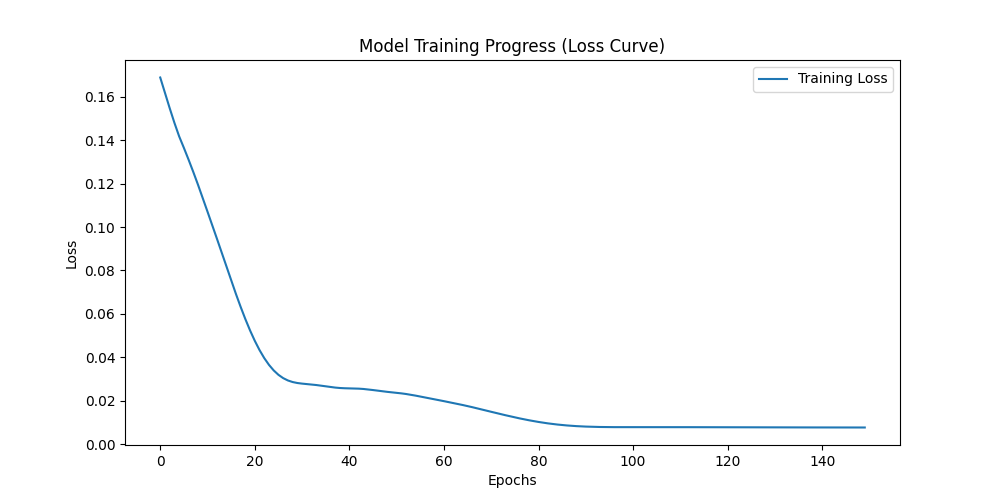
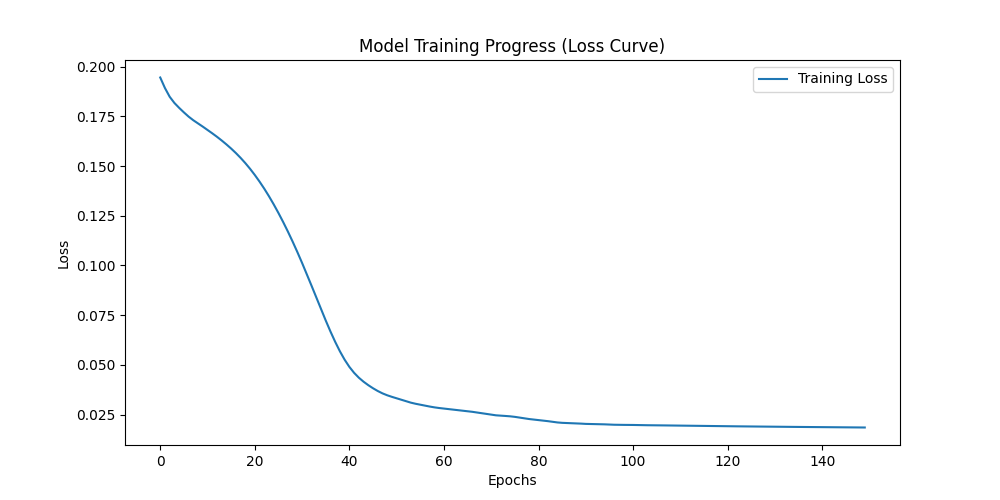
AI fix

diff --git a/core/integrations.py b/core/integrations.py
@@ -10,6 +10,9 @@ class GameIntegration:
     def get_insights(self, m1, m2, m3):
         raise NotImplementedError
 
+    def get_future_predictions(self, future_m1, future_m2, future_m3):
+        return []
+
 
 class FortniteIntegration(GameIntegration):
     def fetch_stats(self, username, platform=None):
@@ -52,6 +55,15 @@ class FortniteIntegration(GameIntegration):
             insights.append("Strategy: Excellent win rate. Strong late-game execution.")
         return norm_m1, norm_m2, norm_m3, insights
 
+    def get_future_predictions(self, future_m1, future_m2, future_m3):
+        kd = (future_m1 / 10.0) * 5.0
+        win_rate = (future_m2 / 10.0) * 20.0
+        wins = (future_m3 / 10.0) * 1000.0
+        return [
+            {"label": "Projected Future K/D", "value": round(kd, 2)},
+            {"label": "Projected Future Win Rate", "value": f"{round(win_rate, 1)}%"},
+            {"label": "Projected Future Wins", "value": int(wins)}
+        ]
 
 class ClashIntegration(GameIntegration):
     def fetch_stats(self, username, platform=None):
@@ -97,6 +109,15 @@ class ClashIntegration(GameIntegration):
             insights.append("Clan Wars: Veteran war attacker with high star count.")
         return norm_m1, norm_m2, norm_m3, insights
 
+    def get_future_predictions(self, future_m1, future_m2, future_m3):
+        th = (future_m1 / 10.0) * 16.0
+        trophies = (future_m2 / 10.0) * 5000.0
+        stars = (future_m3 / 10.0) * 2000.0
+        return [
+            {"label": "Projected Town Hall", "value": int(th)},
+            {"label": "Projected Trophies", "value": int(trophies)},
+            {"label": "Projected War Stars", "value": int(stars)}
+        ]
 
 class SteamIntegration(GameIntegration):
     def fetch_stats(self, username, platform=None):
@@ -148,6 +169,11 @@ class SteamIntegration(GameIntegration):
             insights.append("Engagement: Craft badges during seasonal sales to efficiently level up.")
         return norm_m1, norm_m2, norm_m3, insights
 
+    def get_future_predictions(self, future_m1, future_m2, future_m3):
+        level = (future_m1 / 10.0) * 100.0
+        return [
+            {"label": "Projected Steam Level", "value": int(level)}
+        ]
 
 class HypixelIntegration(GameIntegration):
     def fetch_stats(self, username, platform=None):
@@ -160,48 +186,72 @@ class HypixelIntegration(GameIntegration):
             if r_uuid.status_code != 200:
                 return None, "Minecraft Account Not Found"
             uuid = r_uuid.json().get("id")
-            url_stats = f"https://api.hypixel.net/v2/player?uuid={uuid}"
+            
+            # Switch to fetching deep Skyblock profile data to match AI training
+            url_stats = f"https://api.hypixel.net/v2/skyblock/profiles?uuid={uuid}"
             headers = {"API-Key": api_key}
             r_stats = requests.get(url_stats, headers=headers, timeout=10)
             data = r_stats.json()
-            player = data.get("player")
-            if not player:
-                return None, "Player has no Hypixel data."
-            exp = player.get("networkExp") or 0
-            lvl = (math.sqrt(2 * exp + 15312.5) - 125) / 50
-            login_ms = player.get("firstLogin") or 0
-            login_date = datetime.fromtimestamp(login_ms / 1000.0).strftime('%d %b %Y') if login_ms else "Unknown"
-            karma = player.get("karma") or 0
-            achievement_points = player.get("achievementPoints") or 0
+            
+            profiles = data.get("profiles")
+            if not profiles:
+                return None, "Player has no Skyblock data."
+                
+            # Find their currently active profile
+            profile = next((p for p in profiles if p.get("selected")), profiles[0])
+            clean_uuid = uuid.replace("-", "")
+            member = profile.get("members", {}).get(clean_uuid, {})
+            
+            if not member:
+                return None, "No member data found in profile."
+                
+            # Extract the exact metrics the AI trained on
+            sb_xp = member.get("leveling", {}).get("experience", 0)
+            combat_xp = member.get("player_data", {}).get("experience", {}).get("SKILL_COMBAT", 0)
+            purse = member.get("coin_purse", 0)
+            bank = profile.get("banking", {}).get("balance", 0)
+            total_wealth = purse + bank
+            
+            sb_level = sb_xp / 100  # Rough estimation for display
+            
             return {
-                "main_stat": f"Network Level {max(1, math.floor(lvl))}",
-                "detail_label": "Karma",
-                "detail_value": f"{karma:,}",
-                "m1": float(lvl),
-                "m2": float(karma) / 1000,
-                "m3": float(achievement_points),
+                "main_stat": f"Skyblock Level {math.floor(sb_level)}",
+                "detail_label": "Net Worth",
+                "detail_value": f"{int(total_wealth):,}",
+                "m1": float(sb_xp),
+                "m2": float(combat_xp),
+                "m3": float(total_wealth),
                 "raw_stats": [
-                    {"key": "Achievement Points", "value": achievement_points},
-                    {"key": "First Joined", "value": login_date},
-                    {"key": "Recent Game", "value": player.get("mostRecentGameType", "None")}
+                    {"key": "Skyblock XP", "value": f"{int(sb_xp):,}"},
+                    {"key": "Combat XP", "value": f"{int(combat_xp):,}"},
+                    {"key": "Bank Balance", "value": f"{int(bank):,}"}
                 ]
             }, None
         except Exception as e:
             return None, str(e)
 
     def get_insights(self, m1_val, m2_val, m3_val):
-        norm_m1 = min(m1_val / 250.0, 1.0) * 10
-        norm_m2 = min(m2_val / 5000.0, 1.0) * 10
-        norm_m3 = min(m3_val / 15000.0, 1.0) * 10
+        norm_m1 = min(m1_val / 500000.0, 1.0) * 10
+        norm_m2 = min(m2_val / 50000000.0, 1.0) * 10
+        norm_m3 = min(m3_val / 1000000000.0, 1.0) * 10
         insights = []
-        if m1_val > 100: 
-            insights.append("Dedication: Veteran Hypixel player with high Network Level.")
+        if m1_val > 100000: 
+            insights.append("Progression: High Skyblock XP indicates strong mid-to-endgame status.")
         else: 
-            insights.append("Progression: Complete daily challenges across minigames to boost Network Level.")
-        if m2_val > 1000: 
-            insights.append("Community: High Karma indicates positive player interactions.")
+            insights.append("Progression: Focus on fairy souls and cheap accessories to gain early XP.")
+        if m3_val > 50000000: 
+            insights.append("Economy: Strong wealth generation. Consider investing in minion upgrades.")
         return norm_m1, norm_m2, norm_m3, insights
 
+    def get_future_predictions(self, future_m1, future_m2, future_m3):
+        sb_xp = (future_m1 / 10.0) * 500000.0
+        combat_xp = (future_m2 / 10.0) * 50000000.0
+        wealth = (future_m3 / 10.0) * 1000000000.0
+        return [
+            {"label": "7-Day Projected SB XP", "value": f"{int(sb_xp):,}"},
+            {"label": "7-Day Projected Combat XP", "value": f"{int(combat_xp):,}"},
+            {"label": "7-Day Projected Wealth", "value": f"{int(wealth):,}"}
+        ]
 
 GAME_REGISTRY = {
     'fortnite': FortniteIntegration(),

diff --git a/core/views.py b/core/views.py
@@ -158,15 +158,20 @@ def game_search(request):
         norm_m1, norm_m2, norm_m3, insights = integration.get_insights(m1_val, m2_val, m3_val)
 
         prediction = predict_performance(norm_m1, norm_m2, norm_m3)
-        stats_data['ai_score'] = prediction
+        stats_data['ai_score'] = prediction['ai_score']
         stats_data['insights'] = insights
+        stats_data['future_predictions'] = integration.get_future_predictions(
+            prediction['future_m1'],
+            prediction['future_m2'],
+            prediction['future_m3']
+        )
 
         if request.user.is_authenticated:
             is_linked = SavedGame.objects.filter(user=request.user, game_username=username, platform=game_choice).exists()
             
         if 'raw_stats' in stats_data:
             live_data = {s['key']: s['value'] for s in stats_data['raw_stats']}
-            live_data['ai_score'] = prediction
+            live_data['ai_score'] = prediction['ai_score']
             live_data['main_stat'] = stats_data.get('main_stat')
             live_data['detail_value'] = stats_data.get('detail_value')
             broadcast_stats(username, live_data)
@@ -195,14 +200,19 @@ def api_refresh(request):
 
     norm_m1, norm_m2, norm_m3, insights = integration.get_insights(m1_val, m2_val, m3_val)
     prediction = predict_performance(norm_m1, norm_m2, norm_m3)
-    stats_data['ai_score'] = prediction
+    stats_data['ai_score'] = prediction['ai_score']
+    stats_data['future_predictions'] = integration.get_future_predictions(
+        prediction['future_m1'],
+        prediction['future_m2'],
+        prediction['future_m3']
+    )
 
     cache_key = f"stats_{game_choice}_{username}_{platform}"
     cache.set(cache_key, stats_data, 300)
 
     if 'raw_stats' in stats_data:
         live_data = {s['key']: s['value'] for s in stats_data['raw_stats']}
-        live_data['ai_score'] = prediction
+        live_data['ai_score'] = prediction['ai_score']
         live_data['main_stat'] = stats_data.get('main_stat')
         live_data['detail_value'] = stats_data.get('detail_value')
         broadcast_stats(username, live_data)
@@ -294,8 +304,12 @@ def player_compare(request):
         if d1 and d2:
             n1_m1, n1_m2, n1_m3, _ = integration.get_insights(d1['m1'], d1['m2'], d1['m3'])
             n2_m1, n2_m2, n2_m3, _ = integration.get_insights(d2['m1'], d2['m2'], d2['m3'])
-            d1['ai_score'] = predict_performance(n1_m1, n1_m2, n1_m3)
-            d2['ai_score'] = predict_performance(n2_m1, n2_m2, n2_m3)
+            p1 = predict_performance(n1_m1, n1_m2, n1_m3)
+            p2 = predict_performance(n2_m1, n2_m2, n2_m3)
+            d1['ai_score'] = p1['ai_score']
+            d2['ai_score'] = p2['ai_score']
+            d1['future_predictions'] = integration.get_future_predictions(p1['future_m1'], p1['future_m2'], p1['future_m3'])
+            d2['future_predictions'] = integration.get_future_predictions(p2['future_m1'], p2['future_m2'], p2['future_m3'])
         else:
             error = "Players not found."
     return render(request, 'core/comparison.html', {'user1': u1, 'user2': u2, 'data1': d1, 'data2': d2, 'game_choice': game, 'error': error})

diff --git a/train_model.py b/train_model.py
@@ -26,7 +26,6 @@ def load_hypixel_data():
     max_combat = max(all_snaps.values_list('combat_xp', flat=True)) or 1
     max_wealth = max(all_snaps.values_list('bank_balance', flat=True)) or 1
 
-    # Fix N+1 query issue by downloading all snapshots at once and grouping them in Python.
     print("Formatting player progression data...")
     all_snaps_list = list(all_snaps.order_by('player_id', 'date'))
     player_groups = {}
@@ -42,13 +41,21 @@ def load_hypixel_data():
             first = snaps[0]
             last = snaps[-1]
             
-            x_m1 = min(first.skyblock_xp / max_sb_xp, 1.0)
-            x_m2 = min(first.combat_xp / max_combat, 1.0)
-            x_m3 = min(first.bank_balance / max_wealth, 1.0)
+            days_diff = (last.date - first.date).days
+            if days_diff <= 0:
+                continue
+                
+            sb_gain = (last.skyblock_xp - first.skyblock_xp) / days_diff
+            cb_gain = (last.combat_xp - first.combat_xp) / days_diff
+            wl_gain = (last.bank_balance - first.bank_balance) / days_diff
             
-            y_m1 = min(last.skyblock_xp / max_sb_xp, 1.0)
-            y_m2 = min(last.combat_xp / max_combat, 1.0)
-            y_m3 = min(last.bank_balance / max_wealth, 1.0)
+            x_m1 = min(last.skyblock_xp / max_sb_xp, 1.0)
+            x_m2 = min(last.combat_xp / max_combat, 1.0)
+            x_m3 = min(last.bank_balance / max_wealth, 1.0)
+            
+            y_m1 = min((last.skyblock_xp + (sb_gain * 7)) / max_sb_xp, 1.0)
+            y_m2 = min((last.combat_xp + (cb_gain * 7)) / max_combat, 1.0)
+            y_m3 = min((last.bank_balance + (wl_gain * 7)) / max_wealth, 1.0)
             
             X_data.append([x_m1, x_m2, x_m3])
             y_data.append([y_m1, y_m2, y_m3])

diff --git a/core/ai_model.py b/core/ai_model.py
@@ -36,6 +36,11 @@ def predict_performance(m1, m2, m3):
             future_preds = model(input_tensor)[0]
             weighted_score = float((future_preds[0] * 0.5) + (future_preds[1] * 0.3) + (future_preds[2] * 0.2)) * 100
         
-        return round(max(weighted_score, 0.5), 1)
+        return {
+            "ai_score": round(max(weighted_score, 0.5), 1),
+            "future_m1": float(future_preds[0]) * 10.0,
+            "future_m2": float(future_preds[1]) * 10.0,
+            "future_m3": float(future_preds[2]) * 10.0
+        }
     except:
-        return 0.5
+        return {"ai_score": 0.5, "future_m1": 0.0, "future_m2": 0.0, "future_m3": 0.0}

diff --git a/core/migrations/0001_initial.py b/core/migrations/0001_initial.py
@@ -1,5 +1,3 @@
-# Generated by Django 6.0.1 on 2026-02-05 05:54
-
 import django.db.models.deletion
 from django.conf import settings
 from django.db import migrations, models

diff --git a/core/migrations/0007_savedgame_delete_gamestat.py b/core/migrations/0007_savedgame_delete_gamestat.py
@@ -1,5 +1,3 @@
-# Generated by Django 6.0.1 on 2026-04-22 10:08
-
 import django.db.models.deletion
 from django.conf import settings
 from django.db import migrations, models

diff --git a/core/migrations/0009_trackedplayer_dailystatsnapshot.py b/core/migrations/0009_trackedplayer_dailystatsnapshot.py
@@ -1,5 +1,3 @@
-# Generated by Django 5.2 on 2026-06-03 00:14
-
 import django.db.models.deletion
 from django.db import migrations, models
 

diff --git a/core/migrations/0002_gamestat_date_saved.py b/core/migrations/0002_gamestat_date_saved.py
@@ -1,5 +1,3 @@
-# Generated by Django 6.0.1 on 2026-02-05 06:01
-
 import django.utils.timezone
 from django.db import migrations, models
 

diff --git a/core/migrations/0004_gamestat_metric_1_gamestat_metric_2_and_more.py b/core/migrations/0004_gamestat_metric_1_gamestat_metric_2_and_more.py
@@ -1,5 +1,3 @@
-# Generated by Django 6.0.1 on 2026-04-20 03:40
-
 from django.db import migrations, models
 
 

diff --git a/core/migrations/0005_gamestat_ai_score.py b/core/migrations/0005_gamestat_ai_score.py
@@ -1,5 +1,3 @@
-# Generated by Django 6.0.1 on 2026-04-21 07:22
-
 from django.db import migrations, models
 
 

diff --git a/core/migrations/0008_alter_profile_avatar.py b/core/migrations/0008_alter_profile_avatar.py
@@ -1,5 +1,3 @@
-# Generated by Django 6.0.1 on 2026-04-22 10:31
-
 from django.db import migrations, models
 
 

diff --git a/core/migrations/0010_dailystatsnapshot_bank_balance_and_more.py b/core/migrations/0010_dailystatsnapshot_bank_balance_and_more.py
@@ -1,5 +1,3 @@
-# Generated by Django 5.2 on 2026-06-03 00:32
-
 from django.db import migrations, models
 
 
